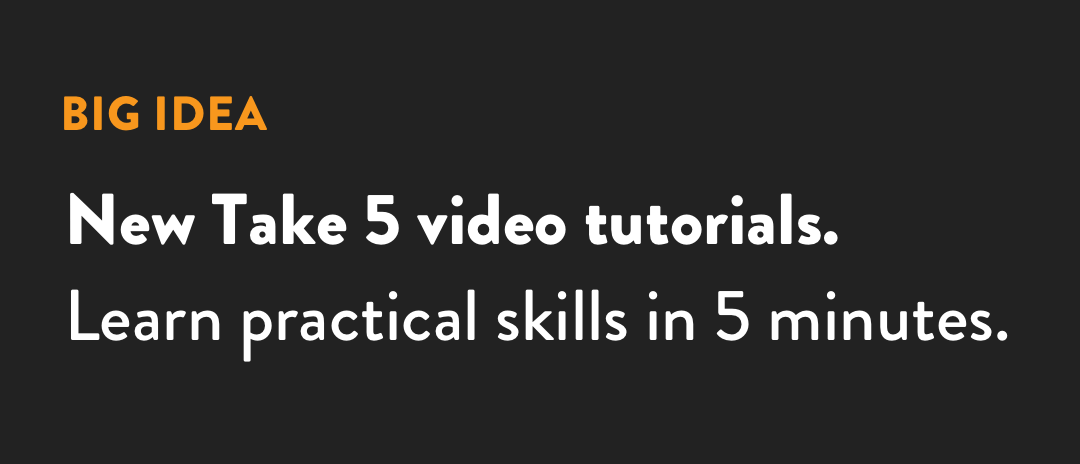
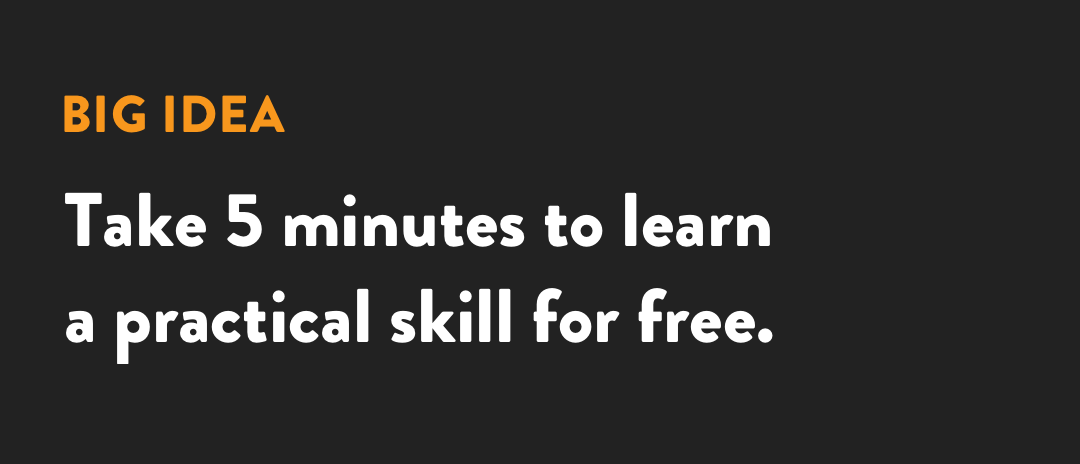
Update Take 5 launch email comp
Update copy and artwork.

Changed region(s): [[0.0611, 0.6034, 0.9472, 0.7845], [0.0611, 0.3922, 0.7944, 0.5431], [0.0611, 0.181, 0.275, 0.3017]]

diff --git a/gym-emails/take5-launch-email/index.html b/gym-emails/take5-launch-email/index.html
@@ -50,14 +50,14 @@ table td {padding: 0;}
           <td width="5%" style="padding: 0;"></td>
           <td width="540" align="left" valign="top" style="padding: 21px 0;">
           <p style="font-family: 'Helvetica Neue', Helvetica, Arial, 'Droid Sans', sans-serif; font-weight: normal; font-size: 16px; line-height: 22px; color: #222222; padding: 0; margin: 0;">
-          Today we&#8217;re launching <strong style="font-weight: bold;">Take 5 tutorials</strong> &#8212; free video tutorials that cover practical skills in just 5 minutes.
+          Today we&#8217;re launching <strong style="font-weight: bold;">Take 5 tutorials</strong> &#8212; free videos that cover practical skills in just 5 minutes.
           </p>
           <div class="leading-21" style="font-family: monospace, monospace; font-size: 21px; line-height: 21px; padding: 0; margin: 0;"><br></div>
           <table width="100%" cellspacing="0" cellpadding="0" border="0" bgcolor="#222222" style="background-color: #222222; border-spacing: 0; border: 1px solid #f8971d;" role="presentation">
             <tr>
               <td align="left" valign="top">
                 <a href="https://thegymnasium.com/take5?utm_source=eloqua&utm_medium=email&utm_campaign=AQ_NA_GYM-take5-launch&utm_content=102819&elqTrack=true" target="_blank" title="Watch and Learn" style="display: block; text-decoration: none; outline: 0; cursor: pointer;">
-                 <img alt="Big Idea: New Take 5 video tutorials." src="img/gym-take5-launch-big-idea-2x.png" width="540" height="232" style="display: block; font-family: 'Helvetica Neue', Helvetica, Arial, 'Droid Sans', sans-serif; font-size: 24px; font-weight: bold; color: #f8971d; vertical-align: middle; width: 100%; max-width: 100%; height: auto; -ms-interpolation-mode: bicubic;">
+                 <img alt="Take 5 minutes to learn practical skills." src="img/gym-take5-launch-big-idea-2x.png" width="540" height="232" style="display: block; font-family: 'Helvetica Neue', Helvetica, Arial, 'Droid Sans', sans-serif; font-size: 24px; font-weight: bold; color: #f8971d; vertical-align: middle; width: 100%; max-width: 100%; height: auto; -ms-interpolation-mode: bicubic;">
                 </a>
               </td>
             </tr>
